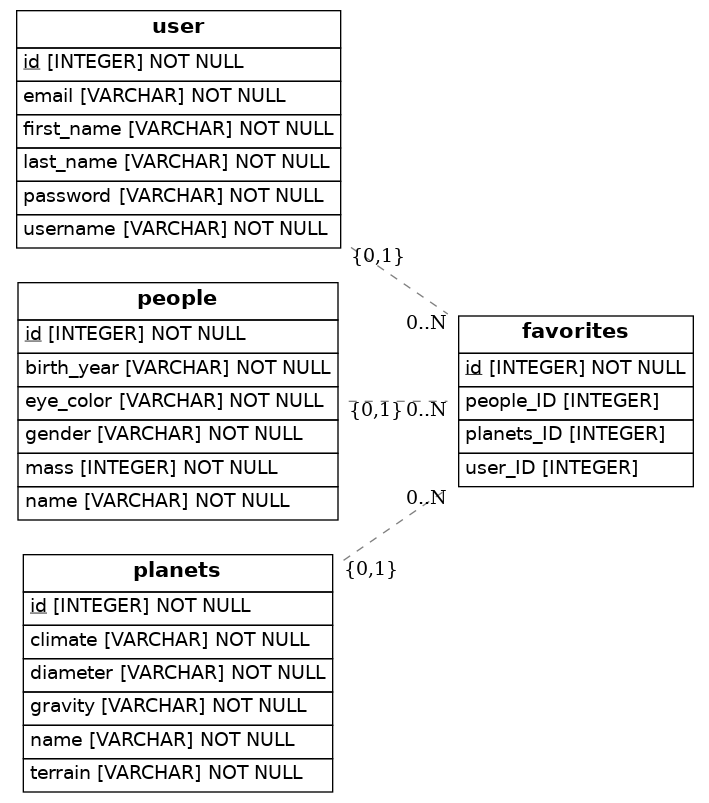
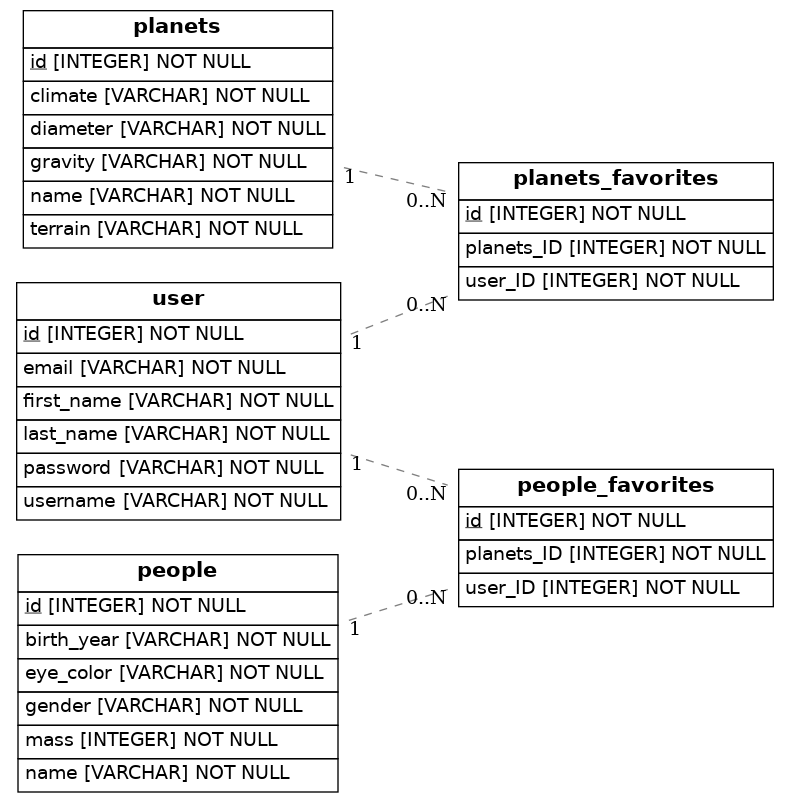
SW data modeling normalize

Changed region(s): [[0.0, 0.0, 0.9929, 0.9963], [0.4654, 0.0311, 0.4965, 0.0623], [0.4034, 0.0311, 0.4344, 0.0623]]

diff --git a/src/models.py b/src/models.py
@@ -18,17 +18,37 @@ class User(Base):
     last_name: Mapped[str] = mapped_column(nullable=False)
 
 
-class Favorites(Base):
-    __tablename__= 'favorites'
+# class Favorites(Base):
+#     __tablename__= 'favorites'
+#     id: Mapped[int] = mapped_column(primary_key=True)
+#     user_ID: Mapped[str] = mapped_column(ForeignKey('user.id'), nullable=True)
+#     user: Mapped["User"] = relationship()
+
+#     planets_ID: Mapped[int] = mapped_column(ForeignKey('planets.id'), nullable=True)
+#     planets: Mapped["Planets"]=relationship()
+
+#     people_ID: Mapped[int] = mapped_column(ForeignKey('people.id'), nullable = True)
+#     people: Mapped["People"]=relationship()
+
+class Planets_favorites(Base):
+    __tablename__= 'planets_favorites'
     id: Mapped[int] = mapped_column(primary_key=True)
-    user_ID: Mapped[str] = mapped_column(ForeignKey('user.id'), nullable=True)
+    user_ID: Mapped[str] = mapped_column(ForeignKey('user.id'))
     user: Mapped["User"] = relationship()
 
-    planets_ID: Mapped[int] = mapped_column(ForeignKey('planets.id'), nullable=True)
+    planets_ID: Mapped[int] = mapped_column(ForeignKey('planets.id'))
     planets: Mapped["Planets"]=relationship()
 
-    people_ID: Mapped[int] = mapped_column(ForeignKey('people.id'), nullable = True)
-    people: Mapped["People"]=relationship()
+class People_favorites(Base):
+    __tablename__= 'people_favorites'
+    id: Mapped[int] = mapped_column(primary_key=True)
+
+    user_ID: Mapped[str] = mapped_column(ForeignKey('user.id'))
+    user: Mapped["User"] = relationship()
+
+    planets_ID: Mapped[int] = mapped_column(ForeignKey('people.id'))
+    planets: Mapped["People"]=relationship()
+
 
 class People(Base):
     __tablename__ = 'people'
